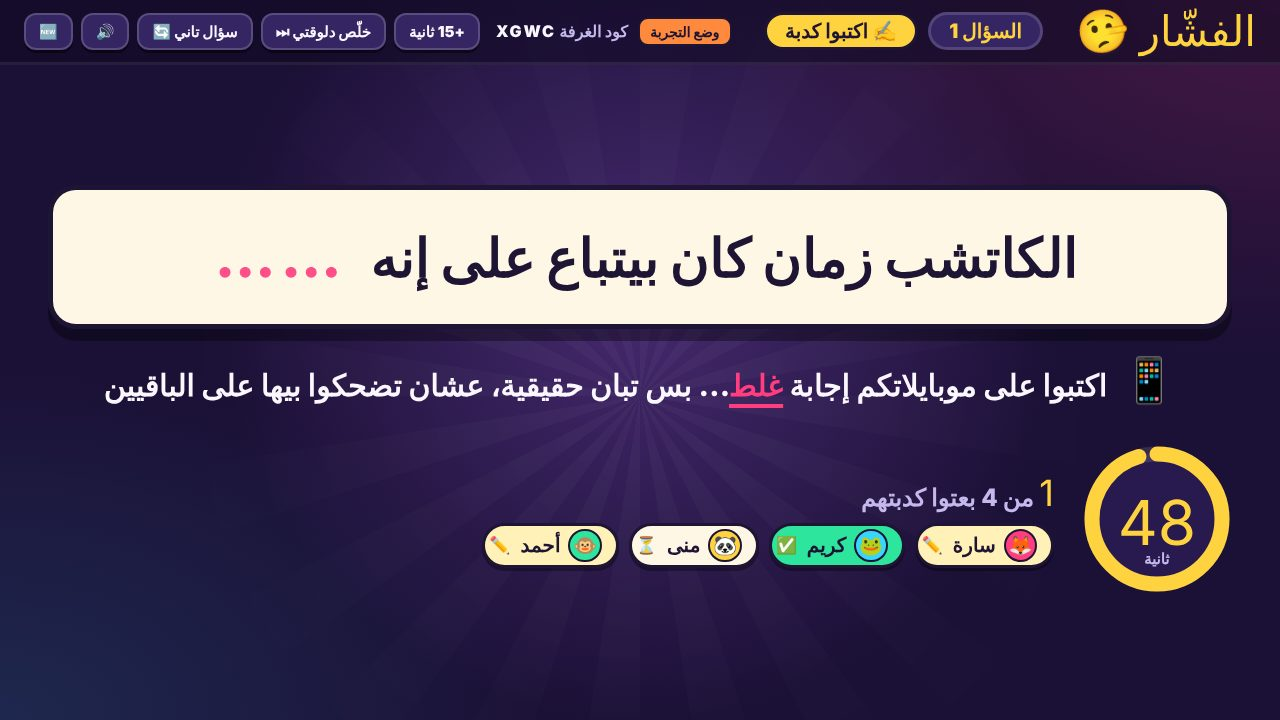
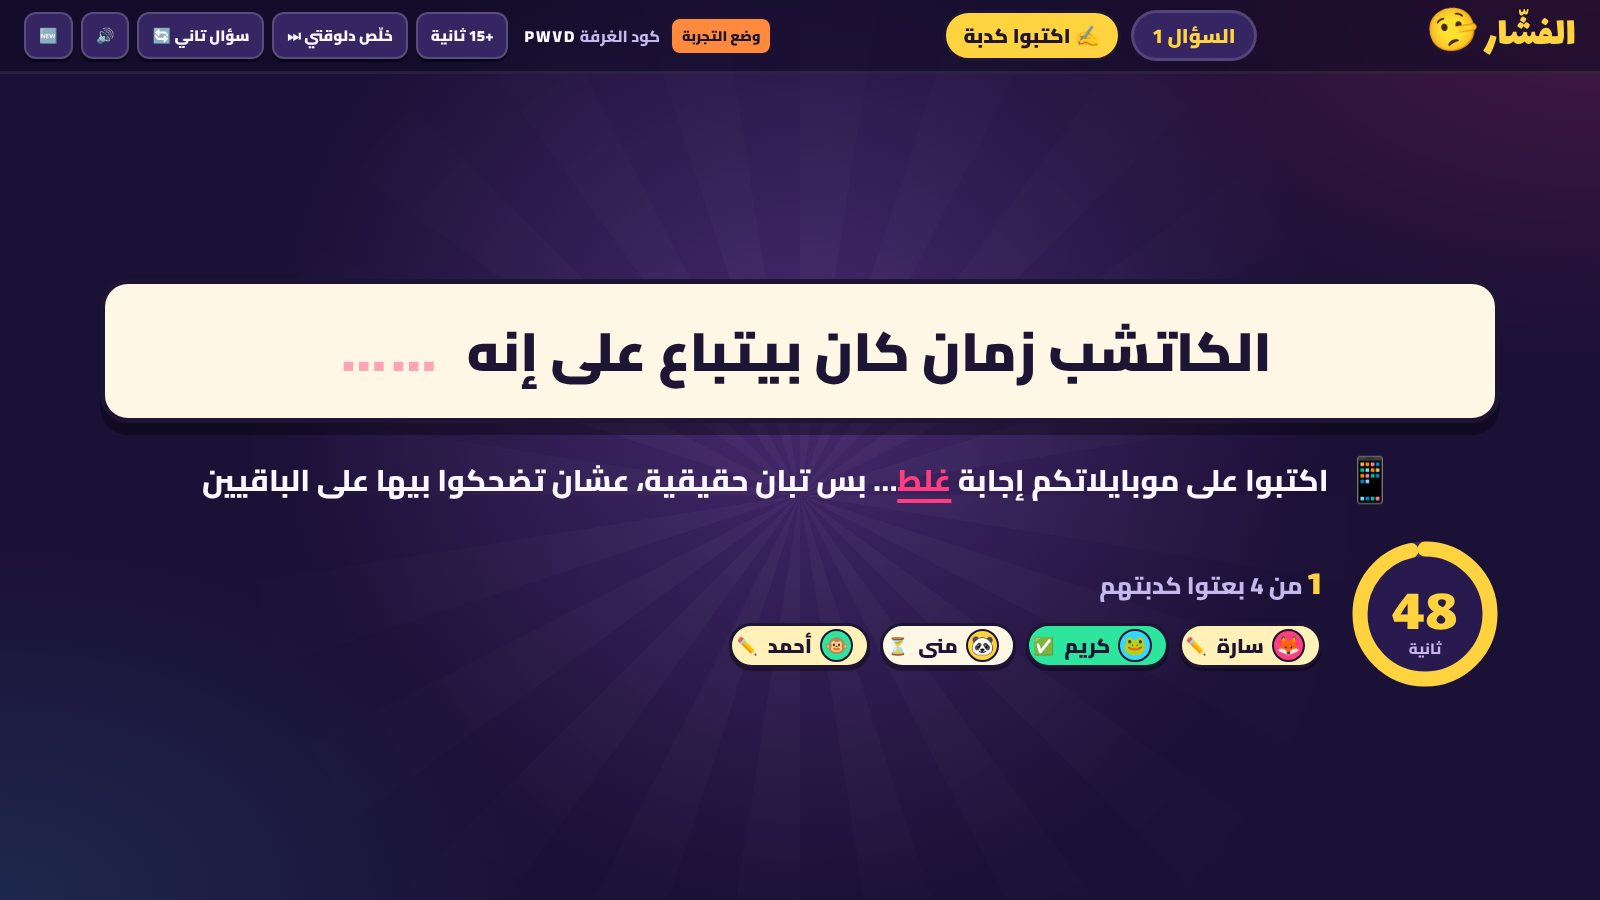
الشرح: صور بس عليها أسهم وكلمات، بالخط الحقيقي، ومن غير تفاصيل الرسايل؛ الحقيقة متجيش في نفس المكان مرتين ورا بعض؛ الكشف ميدخلش تحت زرار التالي في شاشات 720
Claude-Session: https://claude.ai/code/session_01RKmX4b4DBzvG2rMbwuqS7A

Changed region(s): [[0.0312, 0.2444, 0.9688, 0.825], [0.0, 0.0, 0.8125, 0.0917], [0.8438, 0.0, 1.0, 0.0917]]

diff --git a/js/howto.js b/js/howto.js
@@ -1,108 +1,48 @@
-// قسم «إزاي نلعب؟»: شرايح بصور حقيقية من اللعبة (مثال الكاتشب)
-// الصور في img/howto — اتصوّرت من لعبة تجريبية بـ 4 لاعيبة
+// قسم «إزاي نلعب؟»: صور حقيقية من اللعبة (مثال الكاتشب) وعليها أسهم وكلمات قصيرة
+// الصور في img/howto، وأماكن الأسهم في js/howto_marks.js (الاتنين بيتعملوا من سكريبت التصوير)
 (function () {
   const IMG = "img/howto/";
   const SLIDES = [
-    {
-      t: "الفكرة ✍",
-      d: `هتظهر على الشاشة <b>معلومة حقيقية 100%</b>… بس فيها كلمة ناقصة مكانها نقط <span class="hdots">……</span><br><br>
-          كل واحد يكتب على موبايله <b>كدبة</b> تكمّل الجملة وتبان حقيقية، عشان يضحك بيها على الباقيين.`,
-      host: "h_write", phone: "p_write", cap: "سارة كتبت «مربى»… هل هتصدّقوها؟"
-    },
-    {
-      t: "كتبت الإجابة الصح بالغلط؟ 🙈",
-      d: `لو حد كتب الحقيقة، حتى لو بإملا مختلف (دواء = دوا)، الموبايل بيقوله:<br>
-          <b>احفظها واختارها بعدين</b>… ودلوقتي اكتب كدبة غيرها.<br><br>
-          عشان كده الحقيقة عمرها ما بتظهر مرتين.`,
-      phone: "p_reject", cap: "أحمد كتب «دواء» وهي فعلاً الإجابة الصح"
-    },
-    {
-      t: "دوّر على الحقيقة 🕵",
-      d: `كل الكدب بيظهر <b>ومعاه الحقيقة</b> متلخبطين مع بعض.<br><br>
-          كل واحد يختار اللي شايفه <b>صح</b> من موبايله.<br>
-          كدبتك نفسها مش هتقدر تختارها 😏`,
-      host: "h_vote", phone: "p_vote", cap: "سارة اختارت «دوا»… وكدبتها «مربى» مقفولة عليها"
-    },
-    {
-      t: "الكشف: كدبة ضحكت على ناس 😂",
-      d: `المذيع بيكشف كل إجابة الناس اختاروها: <b>كدبة ولا حقيقة؟</b><br><br>
-          لو كدبة، بيبان مين اللي صدّقها ومين اللي كتبها.<br>
-          صاحب الكدبة ياخد <b class="g">+2</b> عن كل واحد صدّقه.`,
-      host: "h_rv_busted", phone: "p_busted", cap: "كريم ومنى صدّقوا «مربى» ← سارة خدت +4"
-    },
-    {
-      t: "كدبات محدش صدّقها 😅",
-      d: `الكدب اللي محدش اختاره بيظهر كله مرة واحدة.<br><br><b>مفيهوش نقط</b>… المرة الجاية اكتب حاجة أقنع!`,
-      host: "h_rv_nobody", cap: "«صابون» و«منظف» محدش صدّقهم"
-    },
-    {
-      t: "والحقيقة! ✅",
-      d: `في الآخر 🥁 الحقيقة بتظهر ومعاها <b>القصة الحقيقية</b> ورا المعلومة.<br><br>
-          اللي لقاها ياخد <b class="g">+1</b>.`,
-      host: "h_rv_truth", phone: "p_truth", cap: "الكاتشب كان بيتباع «دوا» فعلاً!"
-    },
-    {
-      t: "النقط 🧮",
-      pts: true,
-      host: "h_scores", cap: "سارة: 4 من «مربى» + 1 عشان لقت الحقيقة = 5"
-    },
-    {
-      t: "👑 اصطاد المتصدر",
-      d: `من تاني سؤال، اللي في المركز الأول بيتعلّم عليه 👑<br><br>
-          لو المتصدر صدّق كدبتك تاخد <b class="y">+3 بونص</b> فوق نقطك.<br>
-          يعني الكل بيحاول يوقعه… والمتصدر لازم يركّز!`,
-      host: "h_hunt", phone: "p_hunt", cap: "الكل بيحاول يضحك على سارة"
-    },
-    {
-      t: "المتصدر وقع في الفخ 🎯",
-      d: `كريم كتب «النوم»، وصدّقته سارة (المتصدرة) ومنى:<br><br>
-          2 صدّقوه × 2 = <b class="g">4</b><br>+ بونص المتصدر <b class="y">3</b><br>= <b class="g">7 نقط</b> وطلع الأول 🚀`,
-      host: "h_rv_hunt"
-    },
-    {
-      t: "آخر سؤال 🔥 النقط ×2",
-      d: `المذيع بيقرر إمتى آخر سؤال، وفيه <b>كل النقط بتتضاعف</b>:<br><br>
-          كل واحد صدّقك = <b class="g">+4</b><br>لقيت الحقيقة = <b class="g">+2</b><br>(بونص المتصدر يفضل <b class="y">+3</b>)<br><br>
-          يعني أي حد لسه يقدر يكسب!`,
-      host: "h_last"
-    },
-    {
-      t: "الجوايز 🏆",
-      d: `في الآخر بنعلن الجوايز واحدة واحدة:<br><br>
-          😈 <b>أكبر فشّار</b>: أكتر واحد صدّقوا كدبه<br>
-          🕵 <b>كاشف الكدب</b>: أكتر واحد لقى الحقيقة<br>
-          🤍 <b>أطيب قلب</b>: أكتر واحد صدّق كدب زمايله<br>
-          🏆 <b>بطل الفشّار</b>: أعلى نقط`,
-      host: "h_champ"
-    },
+    { t: "<span class=ho-n>1</span> اكتب كدبة ✍", shots: ["h_write", "p_write"] },
+    { t: "<span class=ho-n>2</span> دوّر على الحقيقة 🕵", shots: ["h_vote", "p_vote"] },
+    { t: "<span class=ho-n>3</span> الكشف: مين ضحك على مين 😂", shots: ["h_rv_busted"] },
+    { t: "<span class=ho-n>4</span> والحقيقة ✅", shots: ["h_rv_truth"] },
+    { t: "👑 اصطاد المتصدر", shots: ["h_rv_hunt"] },
+    { t: "🔥 آخر سؤال", shots: ["h_last"] },
+    { t: "النقط 🧮", pts: true },
     { t: "يلا بينا! 🚀", end: true }
   ];
 
-  let el = null, i = 0, open = false;
   const ptsHTML = `<div class="ho-pts">
       <div><span>😈</span><span>كل واحد صدّق كدبتك</span><b class="g">+2</b></div>
       <div><span>✅</span><span>لقيت الحقيقة</span><b class="g">+1</b></div>
       <div><span>🎯</span><span>المتصدر 👑 صدّق كدبتك</span><b class="y">+3 بونص</b></div>
-      <div><span>🔥</span><span>آخر سؤال</span><b class="y">النقط ×2</b></div>
-    </div>
-    <div class="ho-note">الكدب أهم من الحقيقة… الفشّار الشاطر هو اللي بيكسب 😈</div>`;
+      <div><span>🔥</span><span>آخر سؤال</span><b class="y">كل النقط ×2</b></div>
+    </div>`;
 
+  const esc = s => String(s).replace(/[&<>"]/g, c => ({ "&": "&amp;", "<": "&lt;", ">": "&gt;", '"': "&quot;" }[c]));
+  function shot(n) {
+    const phone = n.startsWith("p_");
+    const marks = ((window.HOWTO_MARKS || {})[n] || []).map((m, k) =>
+      `<div class="hm" style="left:${m.x}%;top:${m.y}%;width:${m.w}%;height:${m.h}%;animation-delay:${300 + k * 350}ms">
+         <div class="hm-lab ${m.p}">${esc(m.l)}</div></div>`).join("");
+    return `<div class="shot ${phone ? "phone" : "screen"}"><img src="${IMG + n}.jpg" alt="">${marks}</div>`;
+  }
+
+  let el = null, i = 0, open = false;
   function render() {
     const s = SLIDES[i];
-    const imgs = (s.host ? `<div class="ho-screen"><img src="${IMG + s.host}.jpg" alt=""></div>` : "") +
-      (s.phone ? `<div class="ho-phone"><img src="${IMG + s.phone}.jpg" alt=""></div>` : "");
-    const body = s.end
-      ? `<div class="ho-end"><div class="ho-big">جاهزين؟ 😈</div><div class="ho-d">افتكروا: <b>اكتبوا كدبة تبان حقيقية</b>… واختاروا اللي شايفينه <b>صح</b></div>
-          <button class="btn huge" id="hoClose2">يلا نرجع ونبدأ 🚀</button></div>`
-      : `<div class="ho-text"><div class="ho-d">${s.pts ? ptsHTML : s.d}</div>${s.cap ? `<div class="ho-cap">📸 ${s.cap}</div>` : ""}</div>
-         <div class="ho-imgs ${s.host && s.phone ? "both" : ""}">${imgs}</div>`;
+    let body;
+    if (s.end) body = `<div class="ho-end"><div class="ho-big">جاهزين؟ 😈</div><button class="btn huge" id="hoClose2">يلا نرجع ونبدأ 🚀</button></div>`;
+    else if (s.pts) body = `<div class="ho-ptswrap">${ptsHTML}</div>`;
+    else body = `<div class="ho-imgs">${s.shots.map(shot).join("")}</div>`;
     el.innerHTML = `<div class="ho-box">
-        <div class="ho-head"><div class="ho-step">${i + 1} / ${SLIDES.length}</div><div class="ho-t">${s.t}</div><button class="btn small ghost" id="hoX">✕ قفل الشرح</button></div>
+        <div class="ho-head"><div class="ho-t">${s.t}</div><button class="btn small ghost" id="hoX">✕ قفل الشرح</button></div>
         <div class="ho-body">${body}</div>
         <div class="ho-nav">
           <button class="btn ghost" id="hoPrev" ${i === 0 ? "disabled" : ""}>→ اللي قبله</button>
           <div class="ho-dots">${SLIDES.map((_, k) => `<i class="${k === i ? "on" : k < i ? "past" : ""}" data-k="${k}"></i>`).join("")}</div>
-          ${s.end ? `<span></span>` : `<button class="btn huge" id="hoNext">اللي بعده ←</button>`}
+          ${s.end ? `<span style="width:120px"></span>` : `<button class="btn huge" id="hoNext">اللي بعده ←</button>`}
         </div></div>`;
     el.querySelector("#hoX").onclick = close;
     el.querySelector("#hoPrev").onclick = () => go(-1);
@@ -127,7 +67,7 @@
   }, true);
 
   // نحمّل الصور بدري عشان التقليب يبقى سريع
-  window.addEventListener("load", () => setTimeout(() => SLIDES.forEach(s => [s.host, s.phone].forEach(n => { if (n) new Image().src = IMG + n + ".jpg"; })), 1500));
+  window.addEventListener("load", () => setTimeout(() => SLIDES.forEach(s => (s.shots || []).forEach(n => { new Image().src = IMG + n + ".jpg"; })), 1500));
 
   window.HOWTO = { open: show, close, isOpen: () => open };
 })();

diff --git a/css/style.css b/css/style.css
@@ -475,36 +475,72 @@ bdi.ltr { direction: ltr; unicode-bidi: isolate; display: inline-block; }
 .lobby .howbtn { margin: 10px 0 14px; font-size: 24px; }
 
 /* ---------- قسم «إزاي نلعب؟» ---------- */
-.howto-ov { position: fixed; inset: 0; z-index: 50; background: rgba(14,9,30,.97); backdrop-filter: blur(8px); display: grid; place-items: center; padding: 18px; }
+.howto-ov { position: fixed; inset: 0; z-index: 50; background: rgba(14,9,30,.97); backdrop-filter: blur(8px); display: grid; place-items: center; padding: 16px 22px; }
 .howto-ov.hidden { display: none; }
-.ho-box { width: min(1500px, 100%); height: min(860px, 100%); display: flex; flex-direction: column; gap: 14px; }
+.ho-box { width: 100%; height: 100%; display: flex; flex-direction: column; gap: 10px; }
 .ho-head { display: flex; align-items: center; gap: 18px; }
-.ho-step { font-family: var(--display); color: var(--ink); background: var(--yellow); border: 3px solid var(--ink); border-radius: 999px; padding: 4px 16px 0; font-size: 24px; direction: ltr; }
-.ho-t { flex: 1; font-family: var(--display); font-size: 46px; color: var(--yellow); text-shadow: 0 4px 0 var(--ink); line-height: 1.1; }
-.ho-body { flex: 1; min-height: 0; display: flex; gap: 28px; align-items: center; }
-.ho-text { flex: 0 0 34%; display: flex; flex-direction: column; gap: 16px; }
-.ho-d { font-size: 27px; font-weight: 800; line-height: 1.6; color: var(--text, #fff); }
-.ho-d b { color: var(--yellow); }
-.ho-d b.g, .ho-pts b.g { color: var(--green); }
-.ho-d b.y, .ho-pts b.y { color: var(--yellow); }
-.hdots { color: var(--pink); font-weight: 900; letter-spacing: .1em; }
-.ho-cap { font-size: 20px; font-weight: 800; color: var(--ink); background: var(--cream); border: 3px solid var(--ink); border-radius: 14px; padding: 8px 14px; align-self: flex-start; transform: rotate(-1deg); }
-.ho-imgs { flex: 1; min-width: 0; height: 100%; display: flex; align-items: center; justify-content: center; gap: 22px; }
-.ho-screen { flex: 1; min-width: 0; max-height: 100%; }
-.ho-screen img { width: 100%; max-height: 66vh; object-fit: contain; display: block; border-radius: 14px; border: 5px solid var(--ink); box-shadow: 0 0 0 3px rgba(255,255,255,.18), 0 14px 0 rgba(0,0,0,.4); }
-.ho-phone { flex: 0 0 auto; height: 100%; display: flex; align-items: center; }
-.ho-phone img { height: min(66vh, 600px); display: block; border-radius: 30px; border: 9px solid #0b0716; box-shadow: 0 0 0 3px rgba(255,255,255,.22), 0 14px 0 rgba(0,0,0,.4); }
-.ho-imgs.both .ho-phone img { height: min(60vh, 540px); }
+.ho-t { flex: 1; text-align: center; font-family: var(--display); font-size: 50px; color: var(--yellow); text-shadow: 0 4px 0 var(--ink); line-height: 1.15; padding-inline-start: 140px; }
+.ho-body { flex: 1; min-height: 0; display: flex; align-items: center; justify-content: center; }
+.ho-imgs { display: flex; align-items: center; justify-content: center; gap: 70px; height: 100%; width: 100%; padding: 30px 40px; }
+.shot { position: relative; display: inline-block; flex: 0 1 auto; }
+.shot img { display: block; }
+.shot.screen img { max-width: min(100%, 1100px); max-height: calc(100vh - 230px); border-radius: 14px; border: 5px solid var(--ink); box-shadow: 0 0 0 3px rgba(255,255,255,.18), 0 14px 0 rgba(0,0,0,.4); }
+.ho-imgs .shot.screen { min-width: 0; flex: 1 1 auto; max-width: 66%; }
+.ho-imgs .shot.screen:only-child { max-width: 100%; flex: 0 1 auto; }
+.ho-imgs .shot.screen img { width: 100%; height: auto; }
+.ho-imgs .shot.screen:only-child img { width: auto; }
+.shot.phone img { height: min(calc(100vh - 250px), 560px); width: auto; border-radius: 26px; border: 8px solid #0b0716; box-shadow: 0 0 0 3px rgba(255,255,255,.22), 0 14px 0 rgba(0,0,0,.4); }
+/* المربعات والأسهم اللي على الصور */
+.hm { position: absolute; border: 3px solid var(--yellow); border-radius: 12px; box-shadow: 0 0 0 3px rgba(29,21,51,.85), 0 0 26px rgba(255,210,63,.75); margin: -3px; padding: 2px; box-sizing: content-box; animation: hmIn .45s both; pointer-events: none; }
+@keyframes hmIn { from { opacity: 0; transform: scale(1.15); } to { opacity: 1; transform: none; } }
+.hm-lab { position: absolute; white-space: nowrap; background: var(--yellow); color: var(--ink); border: 3px solid var(--ink); border-radius: 14px; padding: 4px 16px; font-weight: 900; font-size: 24px; box-shadow: 0 5px 0 rgba(0,0,0,.45); z-index: 2; }
+.hm-lab::after { content: ""; position: absolute; width: 0; height: 0; border: 12px solid transparent; }
+.hm-lab.b { top: calc(100% + 20px); left: 50%; transform: translateX(-50%); }
+.hm-lab.b::after { bottom: 100%; left: 50%; margin-left: -12px; border-bottom-color: var(--ink); }
+.hm-lab.t { bottom: calc(100% + 20px); left: 50%; transform: translateX(-50%); }
+.hm-lab.t::after { top: 100%; left: 50%; margin-left: -12px; border-top-color: var(--ink); }
+.hm-lab.r { left: calc(100% + 22px); top: 50%; transform: translateY(-50%); }
+.hm-lab.r::after { right: 100%; top: 50%; margin-top: -12px; border-right-color: var(--ink); }
+.hm-lab.l { right: calc(100% + 22px); top: 50%; transform: translateY(-50%); }
+.hm-lab.l::after { left: 100%; top: 50%; margin-top: -12px; border-left-color: var(--ink); }
+.shot.phone .hm-lab { font-size: 21px; }
 .ho-nav { display: flex; align-items: center; justify-content: space-between; gap: 16px; }
-.ho-dots { display: flex; gap: 8px; }
+.ho-dots { display: flex; gap: 10px; }
 .ho-dots i { width: 14px; height: 14px; border-radius: 50%; background: rgba(255,255,255,.22); cursor: pointer; }
 .ho-dots i.past { background: rgba(255,210,63,.5); }
 .ho-dots i.on { background: var(--yellow); transform: scale(1.35); }
-.ho-pts { display: flex; flex-direction: column; gap: 10px; }
-.ho-pts div { display: grid; grid-template-columns: 44px 1fr auto; align-items: center; gap: 10px; background: rgba(255,255,255,.07); border: 2px solid rgba(255,255,255,.15); border-radius: 14px; padding: 8px 14px; font-size: 24px; font-weight: 800; }
-.ho-pts div span:first-child { font-size: 30px; }
-.ho-pts b { font-family: var(--display); font-weight: normal; font-size: 32px; white-space: nowrap; }
-.ho-note { margin-top: 14px; font-size: 22px; font-weight: 800; color: var(--pink); }
-.ho-end { flex: 1; text-align: center; display: flex; flex-direction: column; align-items: center; gap: 26px; }
-.ho-big { font-family: var(--display); font-size: 90px; color: var(--yellow); text-shadow: 0 6px 0 var(--ink); }
-.ho-end .ho-d { font-size: 34px; }
+.ho-ptswrap { width: min(900px, 100%); }
+.ho-pts { display: flex; flex-direction: column; gap: 16px; }
+.ho-pts div { display: grid; grid-template-columns: 70px 1fr auto; align-items: center; gap: 16px; background: var(--cream); color: var(--ink); border: 4px solid var(--ink); border-radius: 20px; padding: 12px 26px; font-size: 36px; font-weight: 900; box-shadow: 0 8px 0 rgba(0,0,0,.4); }
+.ho-pts div span:first-child { font-size: 46px; }
+.ho-pts b { font-family: var(--display); font-weight: normal; font-size: 48px; white-space: nowrap; color: var(--ink); background: var(--green); border: 3px solid var(--ink); border-radius: 14px; padding: 2px 16px 0; }
+.ho-pts b.y { background: var(--yellow); }
+.ho-end { text-align: center; display: flex; flex-direction: column; align-items: center; gap: 30px; }
+.ho-big { font-family: var(--display); font-size: 110px; color: var(--yellow); text-shadow: 0 6px 0 var(--ink); }
+.ho-n { display: inline-grid; place-items: center; width: 62px; height: 62px; border-radius: 50%; background: var(--yellow); color: var(--ink); text-shadow: none; border: 4px solid var(--ink); font-size: 40px; vertical-align: middle; margin-inline-end: 10px; padding-top: 6px; }
+
+/* ---------- شاشات قصيرة (لابتوب 720): الكشف يصغر شوية عشان ميدخلش تحت زرار التالي ---------- */
+@media (max-height: 820px) {
+  .stage.ph-reveal { padding-top: 8px; padding-bottom: 92px; }
+  .nextbar { bottom: 12px; }
+  .qmini { font-size: 22px; line-height: 1.4; }
+  .rv-top { gap: 6px; }
+  .rcard { padding: 12px 30px 14px; }
+  .rc-label, .rc-k { font-size: 21px; }
+  .rc-answer { margin: 0 0 4px; }
+  .rc-answer .txt { font-size: 58px; }
+  .stamp-slot { top: -46px; }
+  .stamp-slot .stamp { font-size: 52px; padding: 10px 24px 2px; border-width: 5px; }
+  .rcard .chip.big { font-size: 19px; }
+  .voters { min-height: 40px; gap: 8px; }
+  .rc-who { gap: 6px; }
+  .rc-result { margin-top: 6px; min-height: 76px; }
+  .verdict { gap: 8px; }
+  .vline .vk { font-size: 24px; }
+  .points { font-size: 38px; padding: 6px 22px 0; }
+  .points small { font-size: 17px; }
+  .hunt { font-size: 22px; padding: 2px 14px; }
+  .rcard.truth .story { font-size: 18px; margin: 2px auto 8px; padding: 6px 14px; }
+  .suspense { font-size: 42px; }
+  .nextbar .btn.huge { font-size: 26px; padding: 6px 32px 2px; }
+}

diff --git a/js/host.js b/js/host.js
@@ -85,7 +85,7 @@
       if (max > 0) leaders = pids().filter(p => (scores[p] || 0) === max);
     }
     await db.remove(`r${r}`);
-    await db.set("state", { phase: "intro", round: r, qIndex: qi, usedQ: used.concat([qi]), leaders, prompt: Q[qi].prompt, mult: last ? 2 : 1, hunt: leaders.length > 0, last: !!last });
+    await db.set("state", { phase: "intro", round: r, qIndex: qi, usedQ: used.concat([qi]), leaders, prompt: Q[qi].prompt, mult: last ? 2 : 1, hunt: leaders.length > 0, last: !!last, lastTi: S.lastTi === undefined ? -1 : S.lastTi });
   }
   async function startWrite() {
     if (!S || S.phase !== "intro") return;
@@ -141,11 +141,16 @@
     }
     list.push({ t: q.truth, a: [], truth: true });
     shuffle(list);
-    const ti = list.findIndex(o => o.truth);
+    // الحقيقة مكانها عشوائي، ومتجيش في نفس الرقم بتاع السؤال اللي فات (عشان محدش يلاحظ نمط)
+    let ti = list.findIndex(o => o.truth);
+    if (list.length > 2 && ti === S.lastTi) {
+      let j; do { j = Math.floor(Math.random() * list.length); } while (j === ti);
+      [list[ti], list[j]] = [list[j], list[ti]]; ti = j;
+    }
     list.forEach((o, i) => { if (o.bot) bots.push(i); });
     localStorage.setItem(metaKey(r), JSON.stringify({ ti, bots }));
     const clean = list.map(o => ({ t: o.t, a: o.a.length ? o.a : ["-"] }));
-    await db.update({ [`r${r}/options`]: clean, "state/phase": "vote", "state/endsAt": db.now() + VOTE_SEC * 1000, "state/total": VOTE_SEC * 1000 });
+    await db.update({ [`r${r}/options`]: clean, "state/lastTi": ti, "state/phase": "vote", "state/endsAt": db.now() + VOTE_SEC * 1000, "state/total": VOTE_SEC * 1000 });
     ending = false;
   }
 

diff --git a/js/howto_marks.js b/js/howto_marks.js
@@ -1,0 +1,2 @@
+// اتولّد أوتوماتيك من سكريبت التصوير: أماكن الأسهم على الصور (بالنسبة المئوية)
+window.HOWTO_MARKS = {"p_write":[{"l":"اكتب كدبة تبان حقيقية ✍","p":"b","x":9.74,"y":36.94,"w":80.51,"h":10.13}],"h_write":[{"l":"الكلمة الناقصة","p":"t","x":21.01,"y":35.36,"w":6.9,"h":7.5}],"p_vote":[{"l":"اختار اللي شايفه صح","p":"b","x":8.94,"y":48.36,"w":82.12,"h":8.46}],"h_vote":[{"l":"الحقيقة مستخبية وسط كدبكم","p":"b","x":6.25,"y":42.12,"w":87.5,"h":29.78}],"h_rv_busted":[{"l":"دول صدّقوها 😂","p":"l","x":41.68,"y":52.41,"w":16.64,"h":5.99},{"l":"صاحبة الكدبة 😈","p":"l","x":40.76,"y":60.9,"w":8.33,"h":5.99},{"l":"+2 عن كل واحد صدّقها","p":"l","x":35.7,"y":68.73,"w":28.61,"h":9.07}],"h_rv_truth":[{"l":"لقيت الحقيقة 🕵","p":"l","x":45.83,"y":65.23,"w":8.33,"h":5.99},{"l":"+1 لكل واحد لقاها","p":"l","x":34.72,"y":72.99,"w":30.57,"h":9.07}],"h_hunt":[{"l":"المتصدر 👑","p":"b","x":14.27,"y":49.58,"w":71.45,"h":10.06}],"h_rv_hunt":[{"l":"2 صدّقوه × 2 = 4 + بونص 3 = 7","p":"l","x":30.71,"y":63.95,"w":38.58,"h":9.07},{"l":"المتصدر صدّق كدبة كريم 👑","p":"l","x":30.36,"y":74.35,"w":39.28,"h":8.22}],"h_last":[{"l":"كل النقط بتتضاعف","p":"b","x":29.17,"y":43.11,"w":41.66,"h":19.67}]};

diff --git a/index.html b/index.html
@@ -36,6 +36,7 @@
   <script src="js/questions.js"></script>
   <script src="js/db.js"></script>
   <script src="js/sound.js"></script>
+  <script src="js/howto_marks.js"></script>
   <script src="js/howto.js"></script>
   <script src="js/host.js"></script>
 </body>
